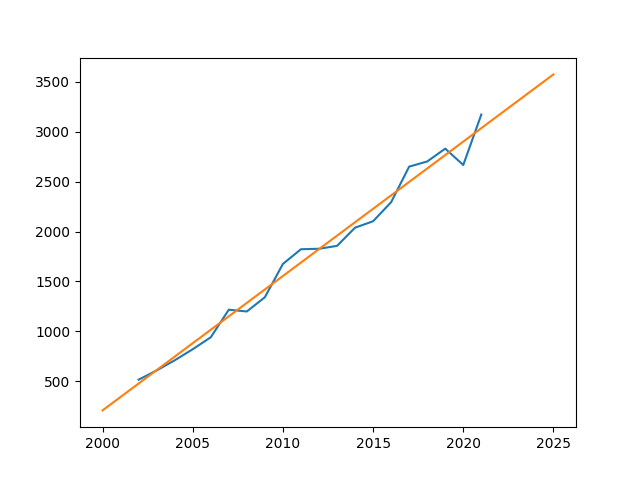
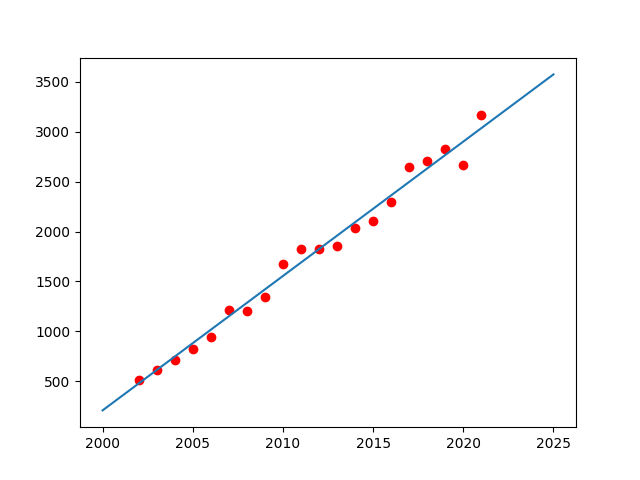
Replaced the actual data with a scatterplot

diff --git a/main.py b/main.py
@@ -17,7 +17,7 @@ if __name__ == "__main__":
     lg.train()
 
     fig, ax = plt.subplots()
-    ax.plot([gdp_data[i][0] for i in range(20)], [gdp_data[i][1] for i in range(20)])
+    ax.scatter([gdp_data[i][0] for i in range(20)], [gdp_data[i][1] for i in range(20)], c="red")
 
     x = np.linspace(2000, 2025, 50)
     y = [lg.get(torch.tensor([_x, 1], device=device))[0].item() for _x in x]
